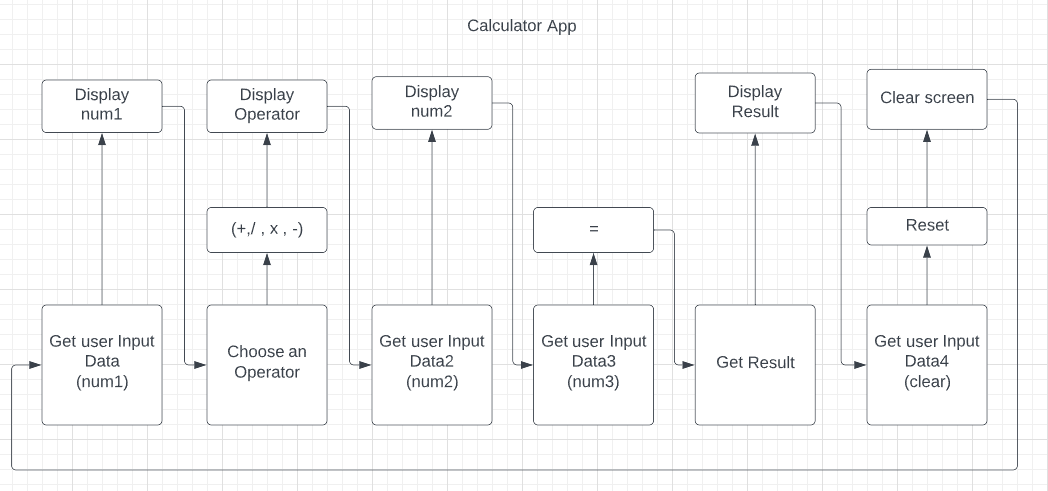
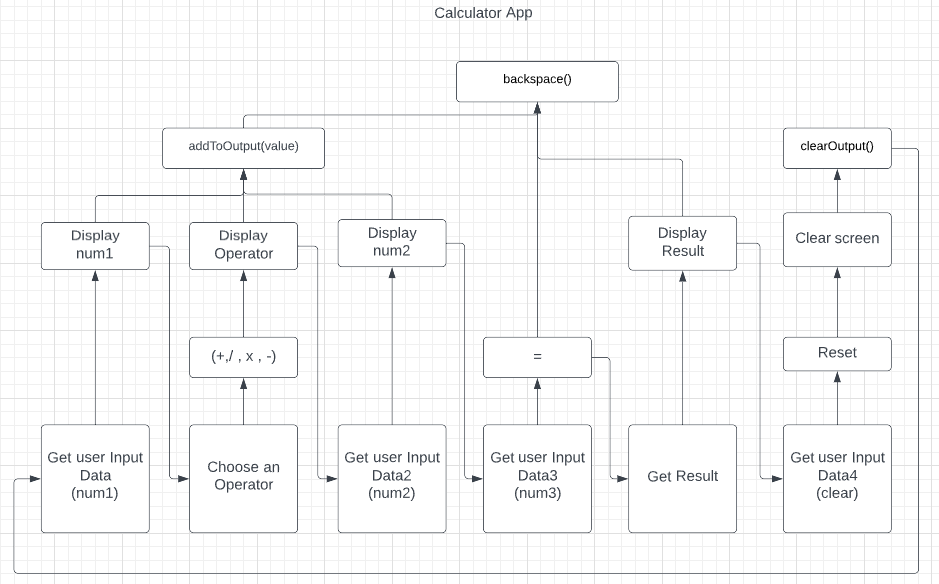
0

diff --git a/script.js b/script.js
@@ -19,13 +19,39 @@ function clearOutput() {
 
 function calculate() {
     const expression = calculationElement.textContent;
-    const result = eval(expression);
+
+    // Use regular expressions to split the expression into numbers and operators
+    const numbers = expression.split(/[\+\-\*\/]/).map(n => parseFloat(n));
+    const operators = expression.split(/[0-9\.]+/).filter(op => op !== '');
+
+    // Evaluate multiplication and division before addition and subtraction
+    let result = numbers[0];
+    for (let i = 0; i < operators.length; i++) {
+        const operator = operators[i];
+        const nextNumber = numbers[i + 1];
+        if (operator === '*') {
+            result *= nextNumber;
+        } else if (operator === '/') {
+            result /= nextNumber;
+        } else if (operator === '+') {
+            result += nextNumber;
+        } else if (operator === '-') {
+            result -= nextNumber;
+        }
+    }
 
     if (result === Infinity || result === -Infinity) {
         answerElement.textContent = 'Error';
     } else {
-        answerElement.textContent = `= ${result}`;
+        answerElement.textContent = `= ${result.toLocaleString()}`;
     }
-    output = '0';
+    output = result.toString();
 }
 
+function backspace() {
+    output = output.slice(0, -1);
+    if (output === '') {
+        output = '0';
+    }
+    calculationElement.textContent = output;
+}
